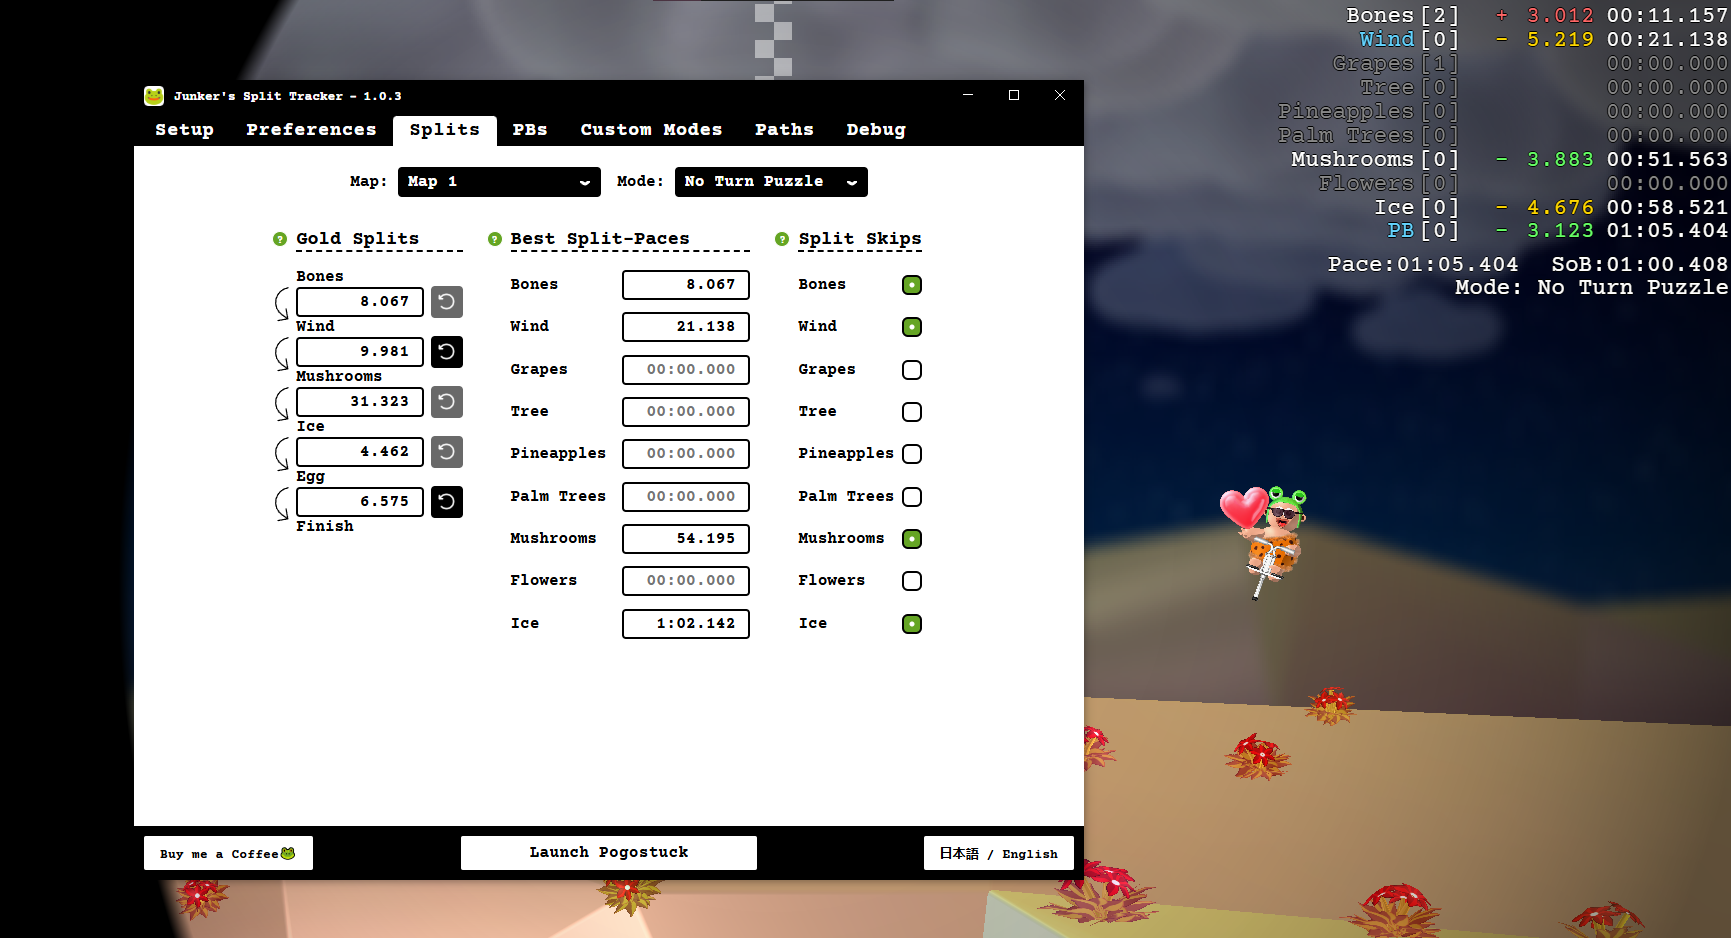
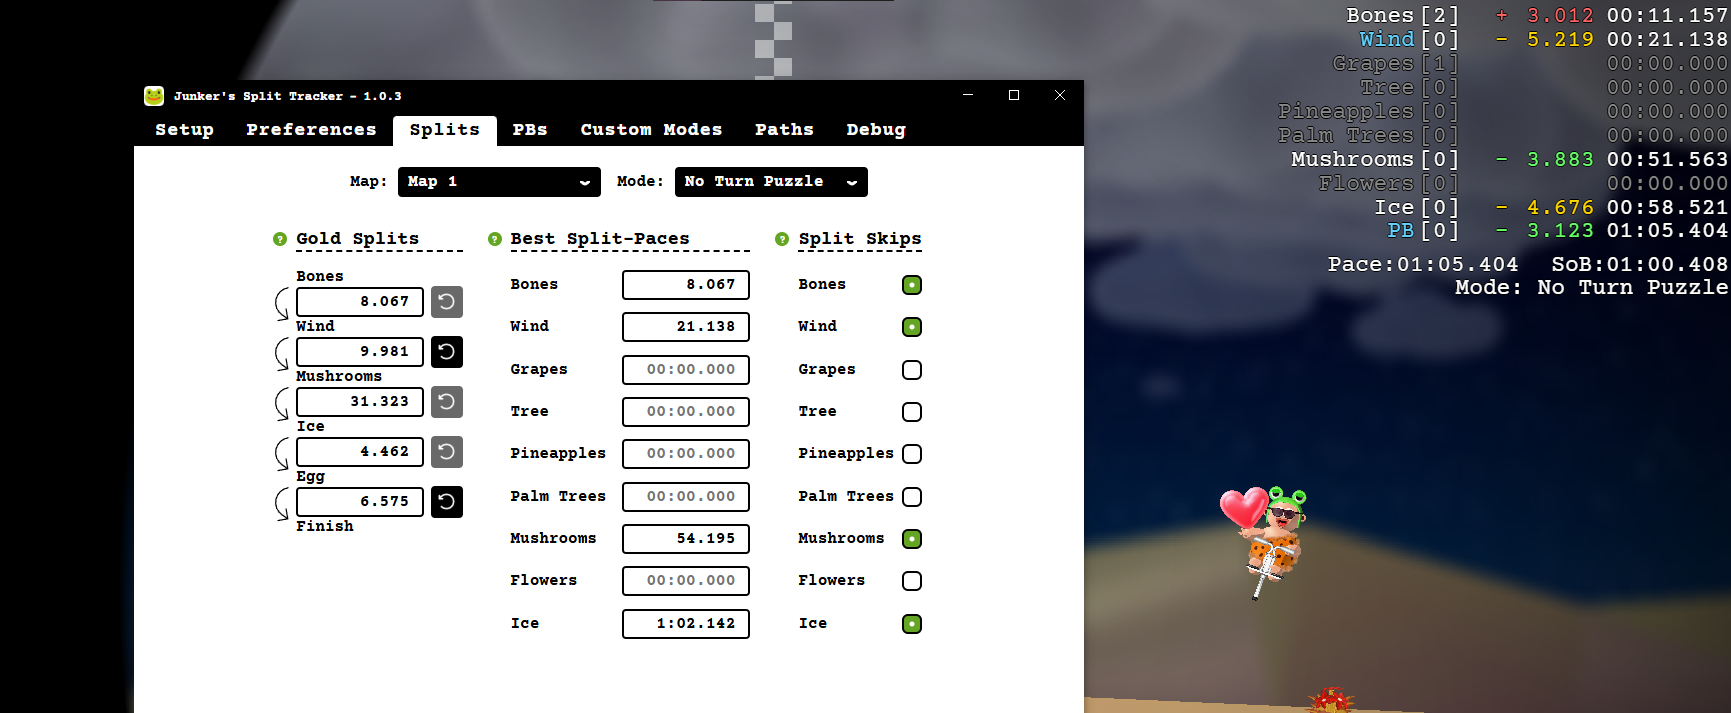
cropped img again

diff --git a/assets/css/style.css b/assets/css/style.css
@@ -151,7 +151,7 @@ section {
     place-items: center;
     align-content: center;
     gap: 16px;
-    height: 60vh;
+    height: 75vh;
     h1 {
         max-width: 56rem;
         margin-inline: auto;
